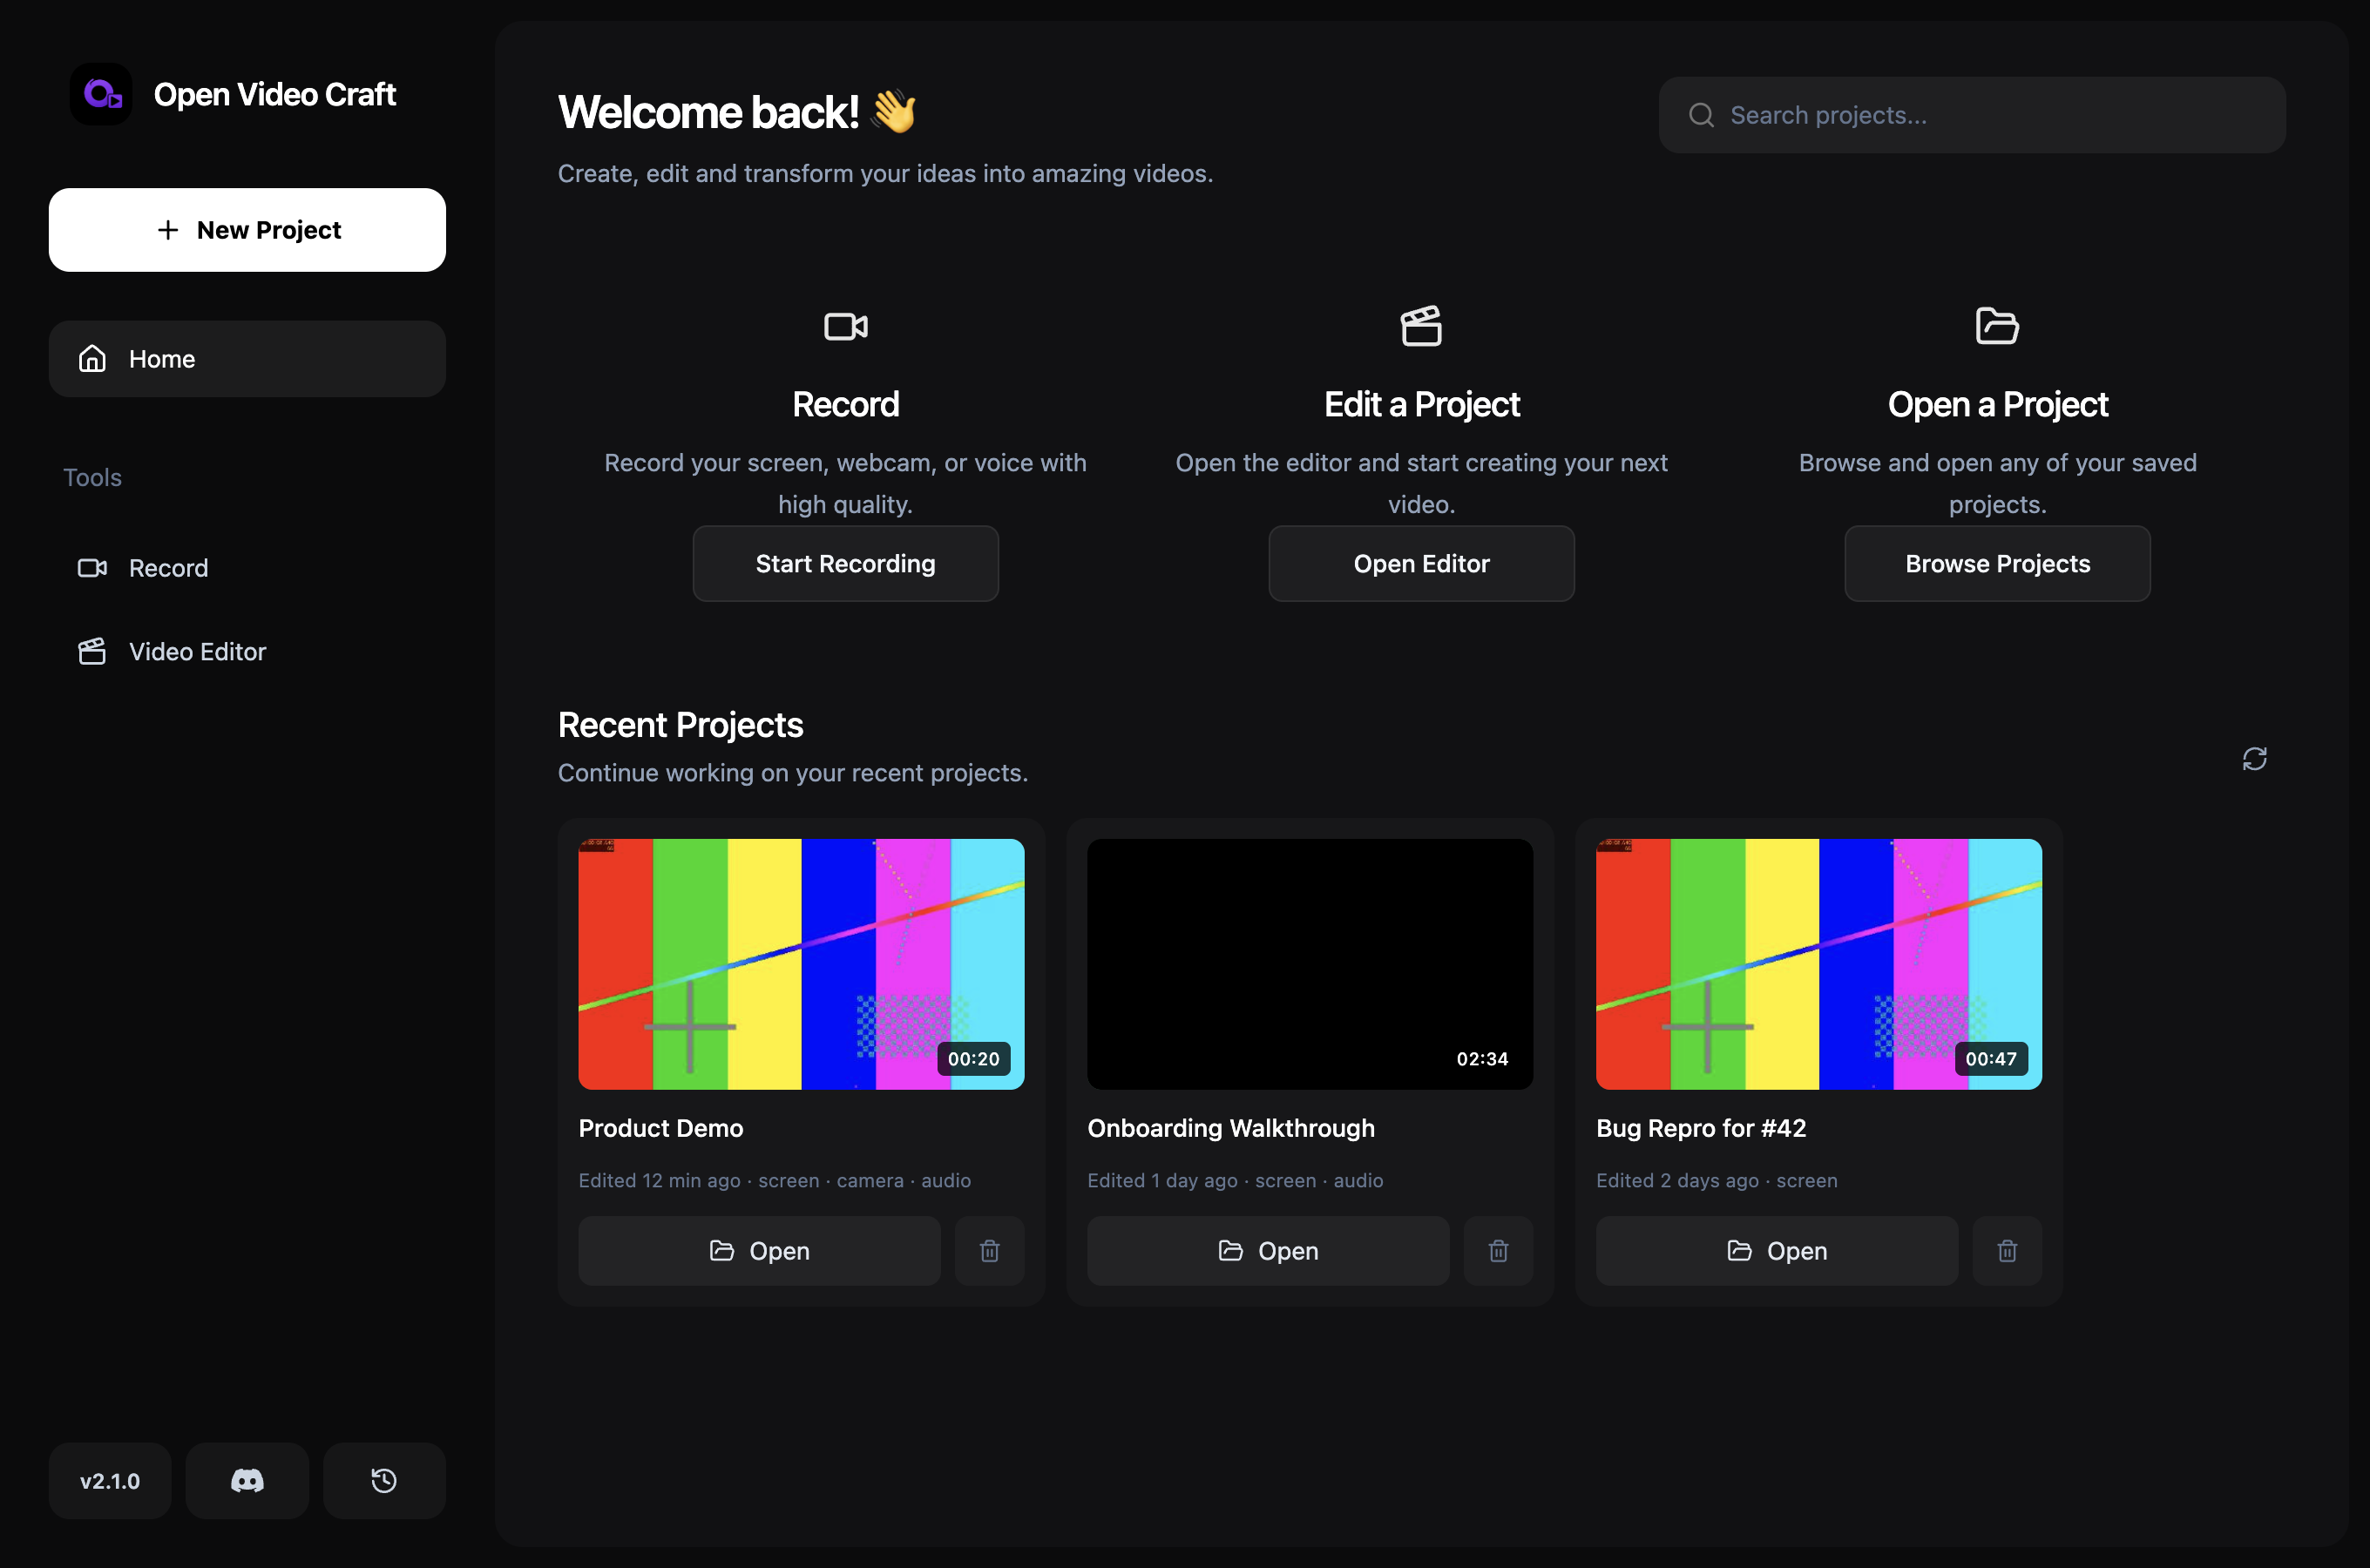
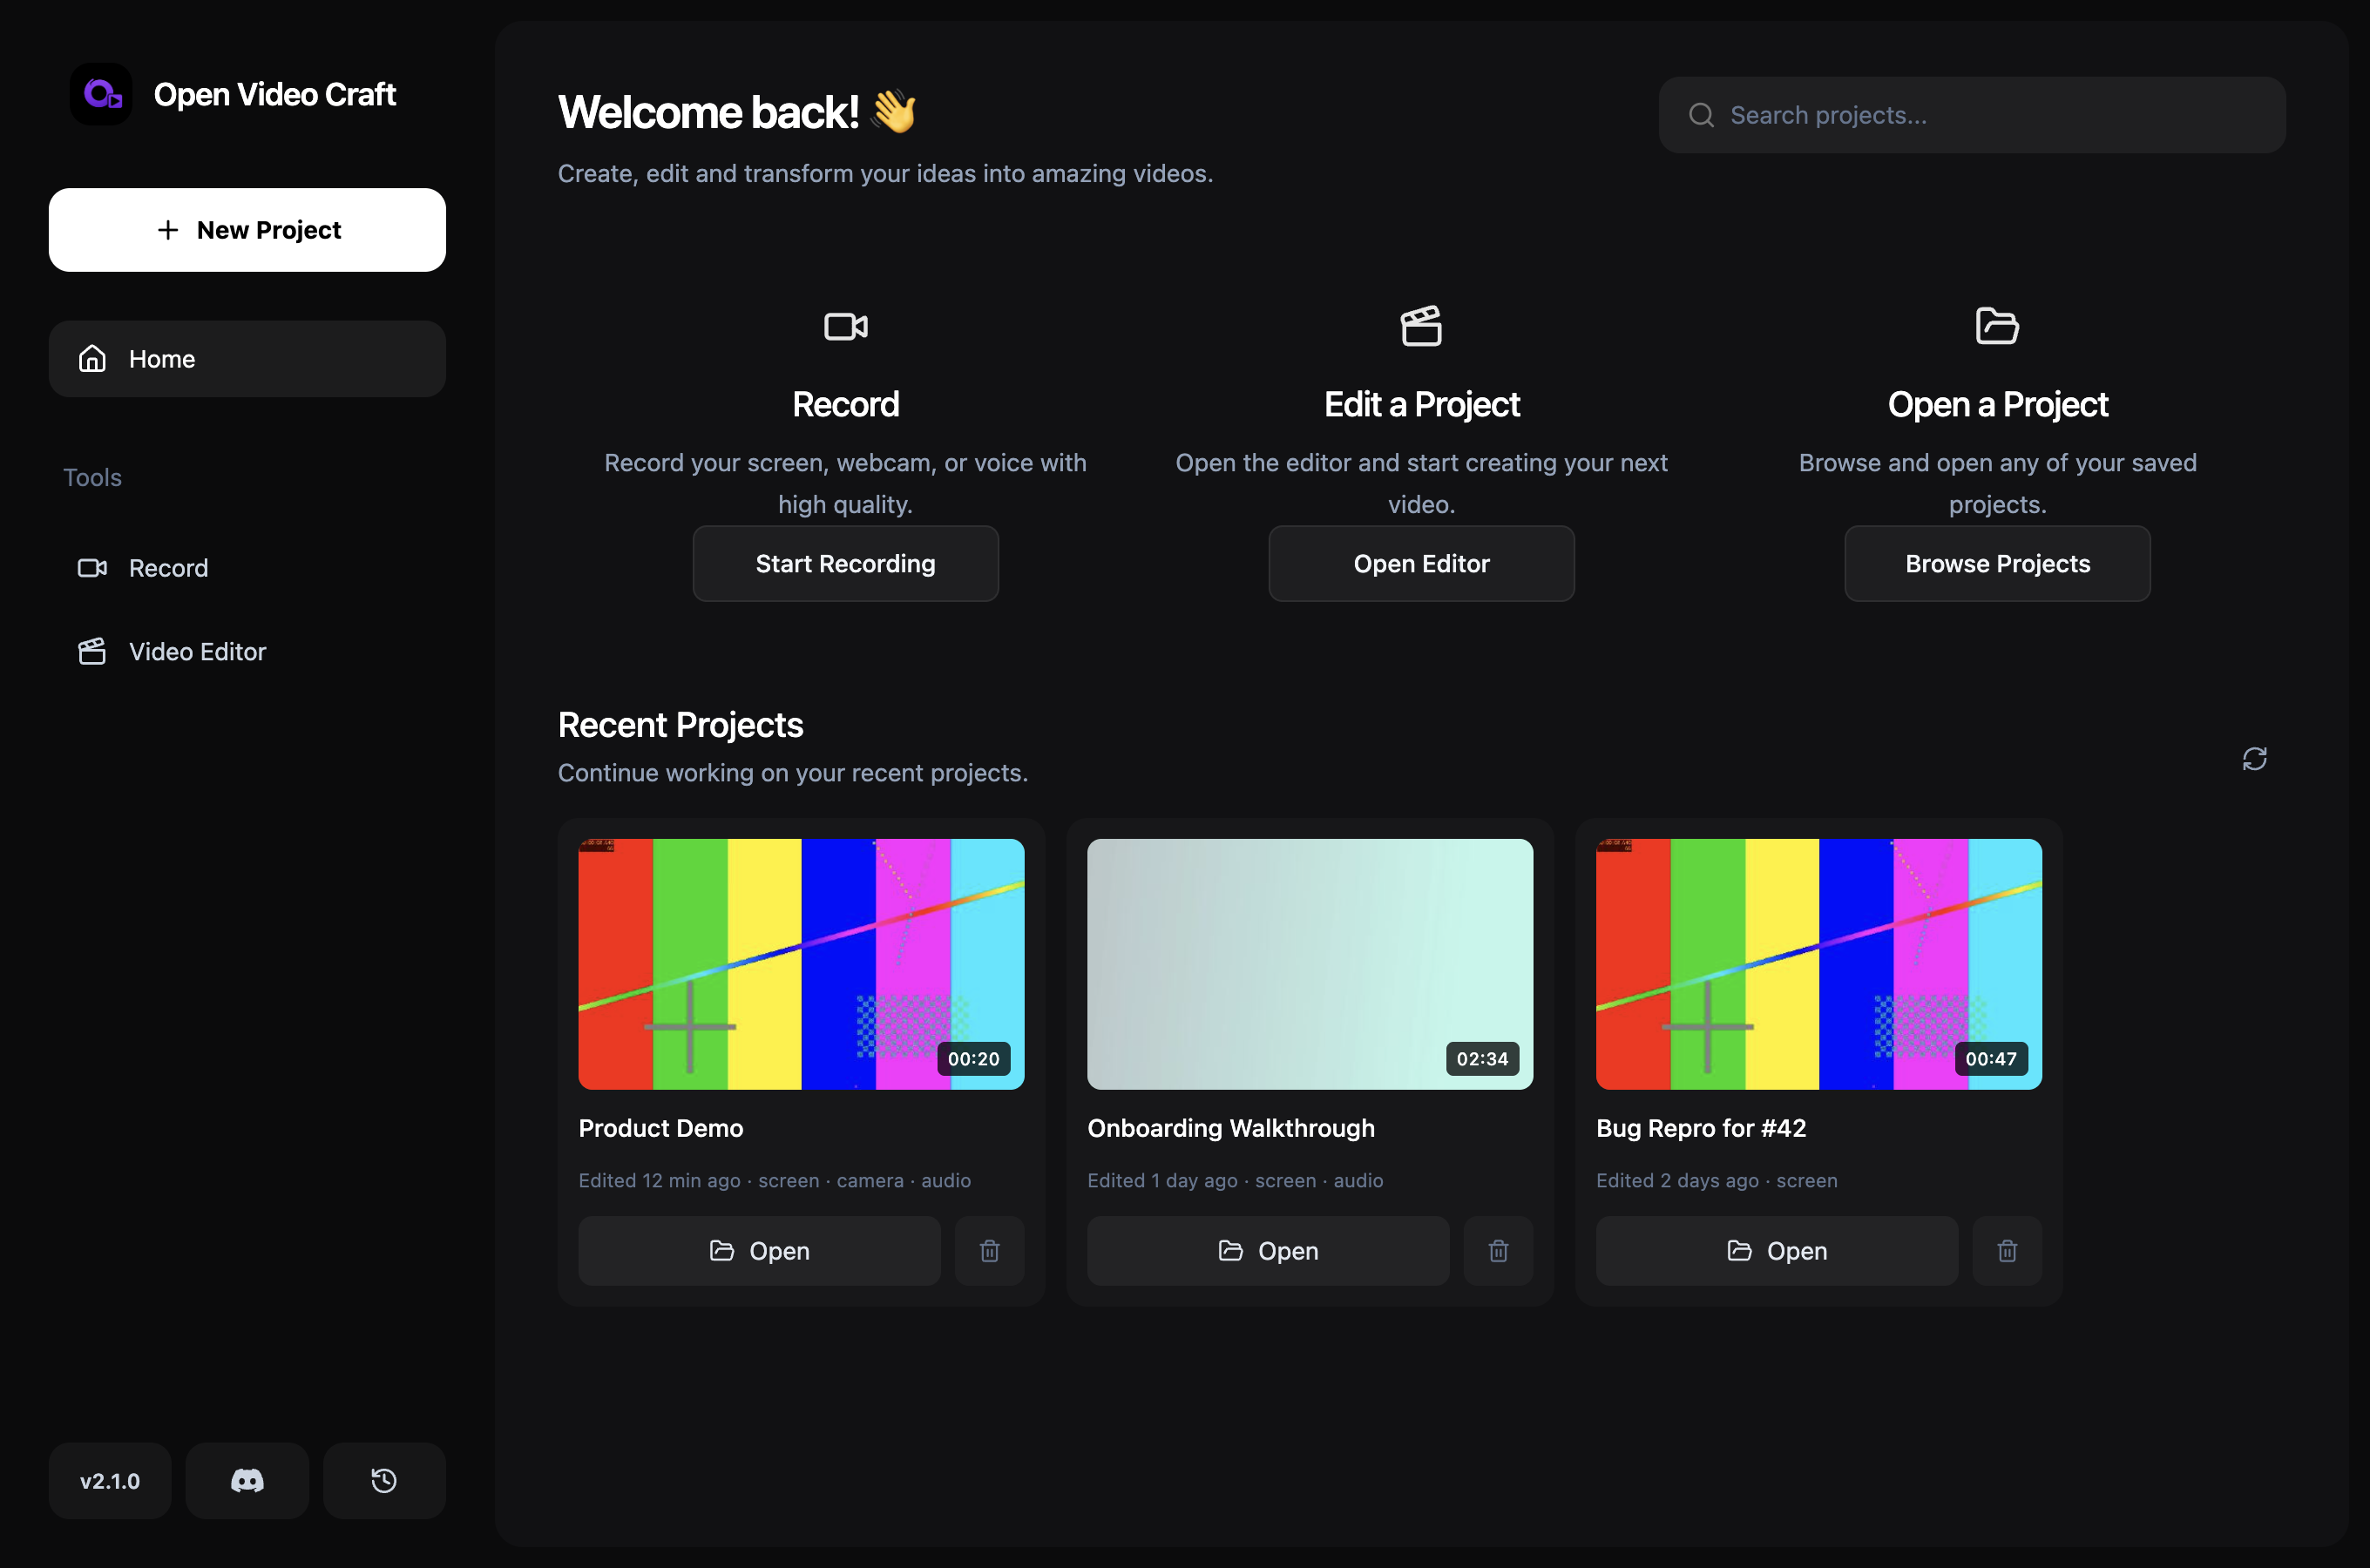
Fix preview: keep Style background during transitions; fit frame to window
Three UI fixes:

- Transitions no longer paint the whole preview black. Only fade-through-
  black uses a solid black backdrop now; crossfade, slide, and wipe
  composite over the frame's Style background so it stays visible around a
  scaled screen instead of being replaced by black.
- The 16:9 preview frame is sized to fit the stage in BOTH axes via
  container-query units (the stage is now a size container), so a short or
  narrow window no longer clips the top/bottom of the preview. Zoom still
  scales that fit and overflows into the scrollable stage past 100%.
- Remove the green check icons from the changelog dialog list.

Claude-Session: https://claude.ai/code/session_01BLQaE21sWjqT9kRaLYYCBN

Changed region(s): [[0.4375, 0.5289, 0.6562, 0.7156]]

diff --git a/src/renderer/editor/EditorPreviewPanel.tsx b/src/renderer/editor/EditorPreviewPanel.tsx
@@ -103,6 +103,10 @@ export function EditorPreviewPanel(props: {
   const secondaryClip = activeTransition
     ? primaryRole === "outgoing" ? activeTransition.to : activeTransition.from
     : null;
+  // Only "fade through black" wants a solid black backdrop. Crossfade, slide,
+  // and wipe must composite over the frame's Style background so it stays
+  // visible around a scaled screen instead of being replaced by black.
+  const blackBackdrop = activeTransition?.transition.type === "fade-black";
   const previewFrameStyle = {
     ...props.previewFrameStyle,
     "--preview-zoom": props.previewZoom
@@ -137,14 +141,12 @@ export function EditorPreviewPanel(props: {
 
       <div className="editor-preview-stage flex min-h-0 min-w-0 flex-1 items-center justify-center overflow-auto bg-black p-4">
         <div className={`editor-preview-frame ${props.previewClassName}`} style={previewFrameStyle}>
-          {activeTransition ? (
+          {blackBackdrop ? (
             <span className="pointer-events-none absolute inset-0 z-0 bg-black" aria-hidden="true" />
           ) : null}
-          {/* bg-black only while a transition is compositing: outside of one,
-              the frame's Style background must stay visible around the video. */}
           {previewItem ? (
             <div
-              className={`absolute inset-0 overflow-hidden ${activeTransition ? "bg-black" : ""}`}
+              className={`absolute inset-0 overflow-hidden ${blackBackdrop ? "bg-black" : ""}`}
               style={activeTransition && primaryRole
                 ? getPreviewTransitionLayerStyle(
                     activeTransition.transition.type,
@@ -200,6 +202,7 @@ export function EditorPreviewPanel(props: {
               cameraStyle={props.cameraStyle}
               cameraVideoStyle={props.cameraVideoStyle}
               previewQuality={previewQuality}
+              opaqueBackdrop={blackBackdrop}
             />
           ) : null}
           <TextOverlayLayer

diff --git a/src/renderer/styles.css b/src/renderer/styles.css
@@ -173,6 +173,13 @@ select,
   box-shadow: none;
 }
 
+/* The stage is a size container so the preview frame can size itself to fit
+   both axes (see previewClassName). Without this, the frame's width is only
+   bounded horizontally and a short window clips the top/bottom of the frame. */
+.editor-preview-stage {
+  container-type: size;
+}
+
 .editor-preview-frame {
   container-type: size;
 }

diff --git a/src/renderer/editor/PreviewTransitionLayer.tsx b/src/renderer/editor/PreviewTransitionLayer.tsx
@@ -25,6 +25,9 @@ export function PreviewTransitionLayer(props: {
   cameraStyle: CSSProperties | null;
   cameraVideoStyle: CSSProperties;
   previewQuality: PreviewQuality;
+  /** Fade-through-black needs a solid black backdrop; other transitions must
+   * composite over the frame's Style background instead. */
+  opaqueBackdrop: boolean;
 }) {
   const mainVideoRef = useRef<HTMLVideoElement | null>(null);
   const cameraRef = useRef<HTMLVideoElement | null>(null);
@@ -72,7 +75,7 @@ export function PreviewTransitionLayer(props: {
   const item = props.clip.item;
   return (
     <div
-      className="pointer-events-none absolute inset-0 overflow-hidden bg-black"
+      className={`pointer-events-none absolute inset-0 overflow-hidden ${props.opaqueBackdrop ? "bg-black" : ""}`}
       style={getPreviewTransitionLayerStyle(props.type, props.progress, props.role)}
       aria-hidden="true"
     >

diff --git a/src/renderer/editor/useEditorDerivedData.ts b/src/renderer/editor/useEditorDerivedData.ts
@@ -318,8 +318,11 @@ export function useEditorDerivedData(params: UseEditorDerivedDataParams) {
     backgroundPosition: "center",
     backgroundSize: "cover"
   } as CSSProperties;
+  // Size the 16:9 frame to the largest that fits the stage in BOTH axes (the
+  // stage is a size container), so a short/narrow window never clips the
+  // preview. Zoom scales that fit; >100% overflows into the scrollable stage.
   const previewClassName =
-    "relative w-[min(100%,calc(940px*var(--preview-zoom,1)))] flex-none aspect-video overflow-hidden bg-[#030405] shadow-[0_18px_60px_rgb(0_0_0_/_0.58)] ring-1 ring-black/80";
+    "relative w-[calc(min(100cqw,177.7778cqh)*var(--preview-zoom,1))] flex-none aspect-video overflow-hidden bg-[#030405] shadow-[0_18px_60px_rgb(0_0_0_/_0.58)] ring-1 ring-black/80";
   // Keep the shared time axis visible while switching tools. Effects and
   // subtitles must not disappear just because Layout or Style is selected.
   const timelineVisible = true;

diff --git a/src/renderer/home/ChangelogDialog.tsx b/src/renderer/home/ChangelogDialog.tsx
@@ -1,5 +1,5 @@
 /** Centered release-notes dialog opened from the homepage footer. */
-import { CheckCircle2, X } from "lucide-react";
+import { X } from "lucide-react";
 import { latestRelease } from "./latest-release";
 
 export function ChangelogDialog(props: { open: boolean; onClose: () => void }) {
@@ -10,7 +10,7 @@ export function ChangelogDialog(props: { open: boolean; onClose: () => void }) {
       <section className="relative grid w-[min(34rem,calc(100vw-2rem))] gap-5 rounded-2xl bg-[linear-gradient(145deg,#1b1b21,#101115)] p-6 text-white shadow-[0_30px_90px_rgb(0_0_0_/_0.65)]" role="dialog" aria-modal="true" aria-labelledby="changelog-title">
         <button className="absolute right-4 top-4 grid size-8 place-items-center rounded-lg text-slate-400 hover:bg-white/[0.06] hover:text-white" type="button" aria-label="Close changelog" onClick={props.onClose}><X size={18} /></button>
         <header><span className="text-xs font-semibold uppercase tracking-[0.16em] text-neutral-400">Version {latestRelease.version}</span><h2 id="changelog-title" className="m-0 mt-2 text-xl font-semibold">{latestRelease.title}</h2><p className="m-0 mt-1 text-sm text-slate-400">Everything included in the latest homepage and editor update.</p></header>
-        <ul className="m-0 grid list-none gap-3 p-0">{latestRelease.changes.map((change) => <li className="flex gap-3 text-sm leading-6 text-slate-300" key={change}><CheckCircle2 className="mt-1 shrink-0 text-emerald-300" size={16} /><span>{change}</span></li>)}</ul>
+        <ul className="m-0 grid list-none gap-3 p-0">{latestRelease.changes.map((change) => <li className="text-sm leading-6 text-slate-300" key={change}><span>{change}</span></li>)}</ul>
         <button className="ml-auto min-h-10 rounded-lg bg-white/[0.07] px-5 text-sm font-medium hover:bg-white/[0.12]" type="button" onClick={props.onClose}>Done</button>
       </section>
     </div>